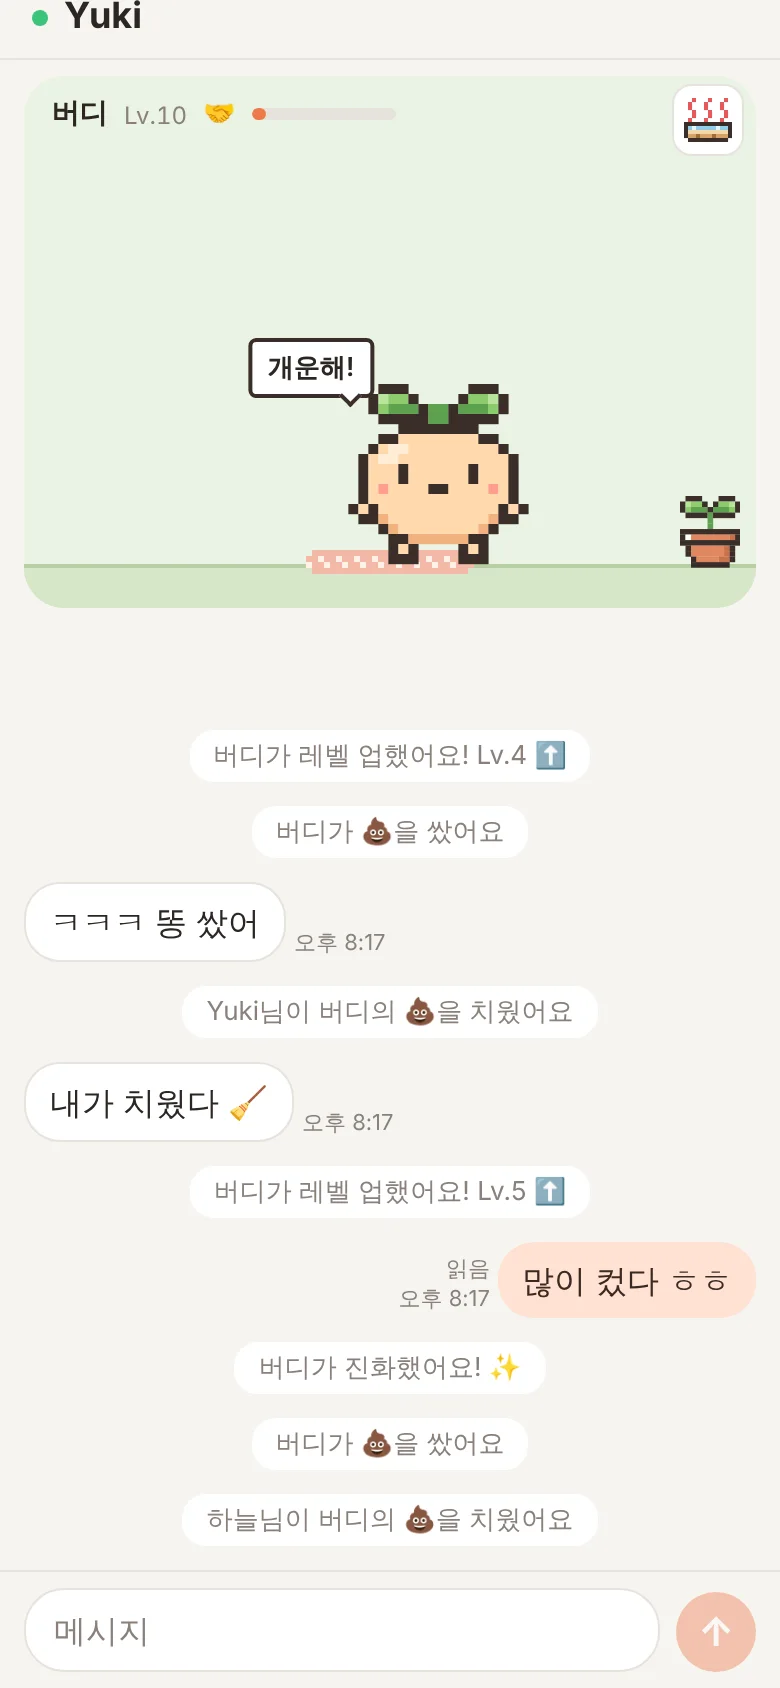
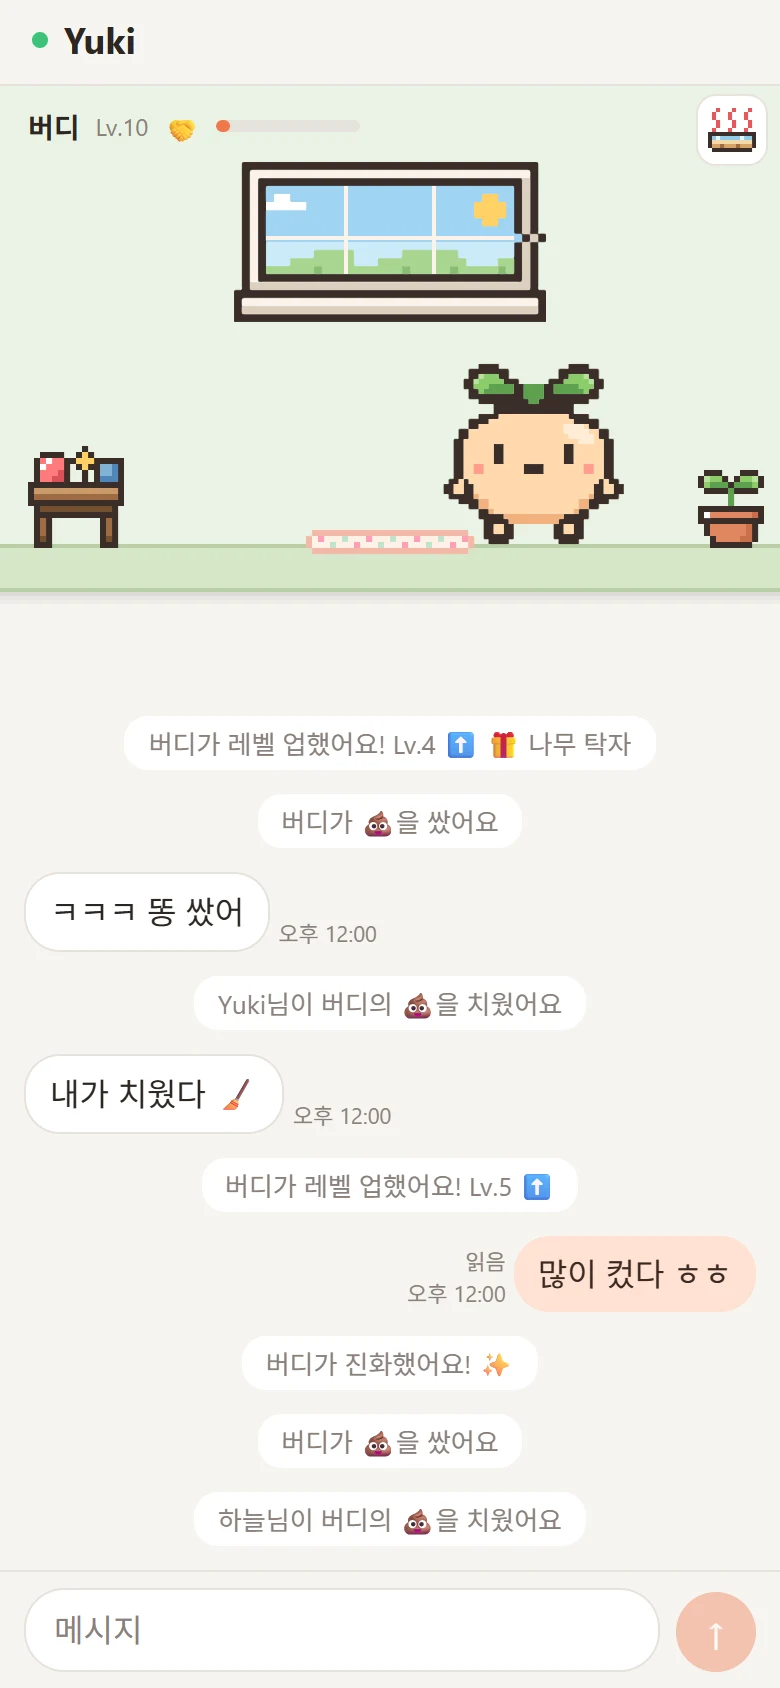
Puny Chat 갤러리 스크린샷 재촬영 (#26)
로컬에서 띄운 구경하기 데모로 기존과 같은 4장면(Lv.10, Lv.20 직업,
온천, 눈 온천)을 다시 찍어 한국어 컷으로 교체했다. Lv.10 장면의 alt를
고쳤다.

diff --git a/app/content/projects/puny-chat/ja.ts b/app/content/projects/puny-chat/ja.ts
@@ -49,7 +49,7 @@ export const ja: ProjectCopy = {
     main: "デスクトップブラウザのPuny Chat。チャットの上のステージで、おとなのバディが仕事の道具のそばにいる",
     inset: "スマホのPuny Chat。働くおとなのバディと、メッセージの間に表示されるできごと",
     gallery: [
-      "ステージで話す子どものバディ。下のチャットにはうんちと掃除のできごとが並ぶ",
+      "ステージにいるLv.10の子どものバディ。下のチャットにはうんちと掃除のできごとが並ぶ",
       "仕事場にいる、頭に花をのせたおとなのバディ。下では週末の話をしている",
       "露天風呂に入るバディ。頭にタオルをのせていて、下ではチャットが続いている",
       "同じ露天風呂に雪が降る冬の様子",

diff --git a/app/content/projects/puny-chat/ko.ts b/app/content/projects/puny-chat/ko.ts
@@ -49,7 +49,7 @@ export const ko: ProjectCopy = {
     main: "데스크톱 브라우저의 Puny Chat. 채팅 위 무대에서 어른 버디가 직업 장치 옆에 있다",
     inset: "휴대폰의 Puny Chat. 일하는 어른 버디와 메시지 사이에 섞인 이벤트",
     gallery: [
-      "무대에서 말하는 어린이 버디. 아래 채팅에는 똥과 청소 이벤트가 이어진다",
+      "무대 위의 Lv.10 어린이 버디. 아래 채팅에는 똥과 청소 이벤트가 이어진다",
       "직업 장치 앞에 선, 머리에 꽃을 얹은 어른 버디. 아래에서는 주말 이야기를 한다",
       "노천탕에 들어간 버디. 머리에 수건을 얹었고 아래에서는 채팅이 이어진다",
       "같은 노천탕에 눈이 내리는 겨울 모습",

diff --git a/app/content/projects/puny-chat/index.ts b/app/content/projects/puny-chat/index.ts
@@ -63,7 +63,7 @@ export const punyChat: Project = {
     },
   ],
   gallery: [
-    { src: kid, alt: "The kid buddy saying something on the stage, with the poop and cleaning events in the chat below", frame: "phone" },
+    { src: kid, alt: "The kid buddy at Lv.10 on the stage, with the poop and cleaning events in the chat below", frame: "phone" },
     { src: adult, alt: "The adult buddy at its job station with a flower on its head, above a chat about the weekend", frame: "phone" },
     { src: onsen, alt: "The buddy in an open-air hot spring with a towel on its head, and the chat still running below", frame: "phone" },
     { src: onsenSnow, alt: "The same hot spring in winter, with snow falling", frame: "phone" },

diff --git a/docs/VALIDATION.md b/docs/VALIDATION.md
@@ -2,6 +2,13 @@
 
 기준일: 2026-10-22 (Asia/Seoul)
 
+## Puny Chat 스크린샷 재촬영 (2026-10-22)
+
+- 사용자 요청에 따라 `ottuck/puny-chat`을 임시 폴더에 받아 Expo 웹 개발 서버로 띄우고, 기존 갤러리와 같은 4장면(Lv.10 어린이, Lv.20 직업 장치의 어른, 온천, 눈 오는 온천)을 구경하기 데모 대본으로 다시 찍었다. 임시 사본에서만 데모 화면에 장면 선택 주소값(단계·레벨·직업·온천·눈, 배속·멈춤 시점)을 더했고, Firebase 설정은 형식만 맞춘 가짜 값을 `.env.local`에 두었다. 원래 저장소에는 아무것도 올리지 않았다.
+- headless Chrome에서 390×844 2x(780×1688), 페이지 안의 시계는 오후 12:00으로 고정해 낮 화면으로 찍었다. 한국어·영어·일본어·중국어(번체) 16장은 사용자 다운로드 폴더(`Downloads/puny-chat-screenshots/<언어>`)에 PNG로 저장했다.
+- 포트폴리오 갤러리 4장은 기존처럼 한국어 화면으로 교체했다(WebP 품질 88, 크기 동일). Lv.10 장면에 말풍선이 없어져 그 alt만 세 언어로 고쳤고, `docs/baseline.json`은 Puny Chat 상세 3개 경로의 alt만 바뀌었다.
+- 로컬 Node 26.7.0에서 `pnpm check`, `pnpm generate`(33개 페이지, 381개 자산 검증), `pnpm test:pages`가 통과했다.
+
 ## Quant Lab·UR Check 스크린샷 재촬영과 구성도 내보내기 (2026-10-22)
 
 - 두 앱의 UI가 바뀌어 라이브 데모(`demo.trading-lab.me`, `demo.ur-check.com`)에서 같은 구성의 화면을 headless Chrome(DevTools 프로토콜)으로 다시 찍었다. 데스크톱은 1280×800 1x, 휴대폰은 390×844 2x(780×1688), 라이트 테마다. Quant Lab은 기존처럼 한국어, UR Check은 사용자 요청대로 일본어 화면이다. WebP 품질 88로 저장했고 크기는 기존과 같다.
